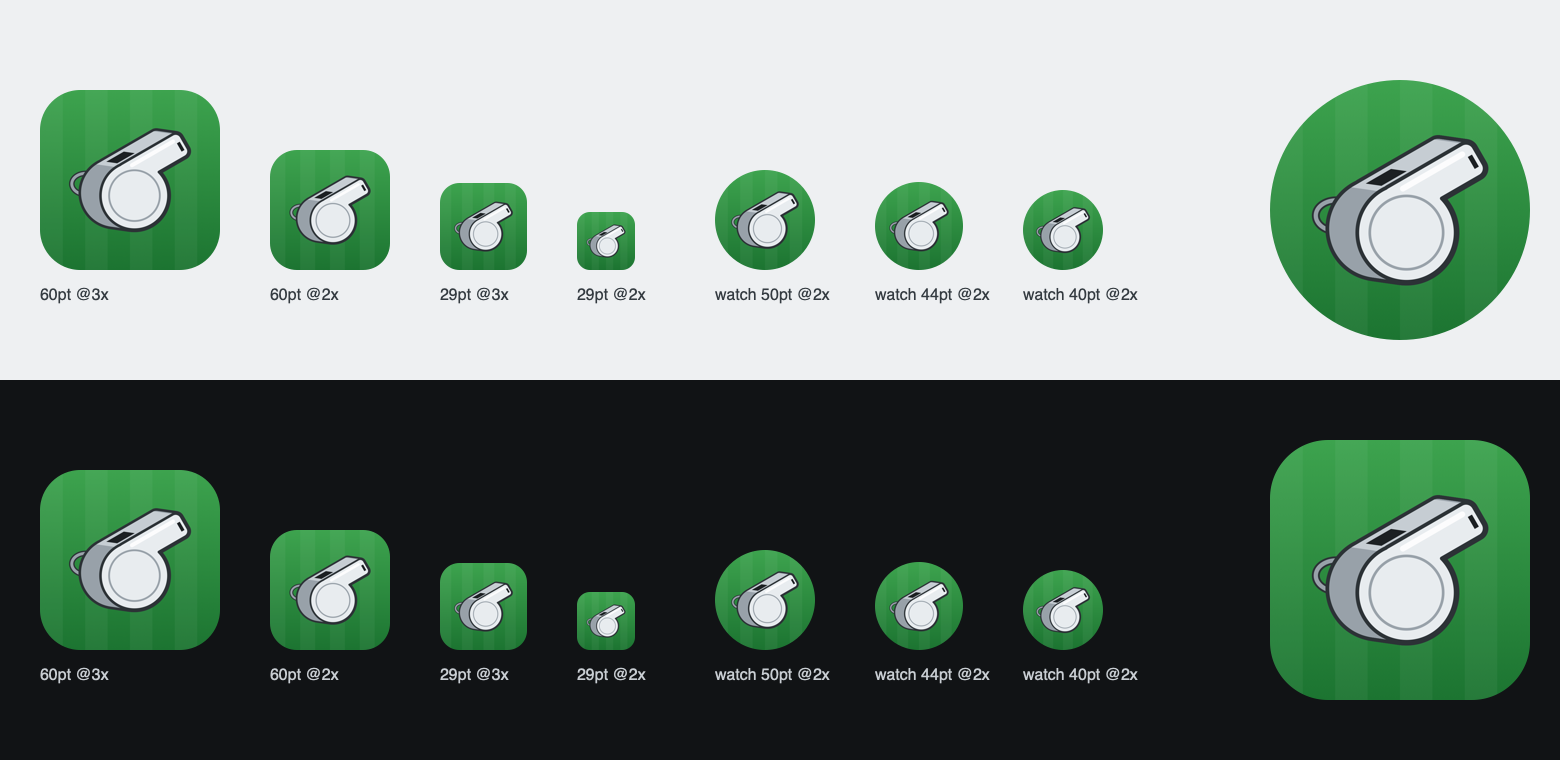
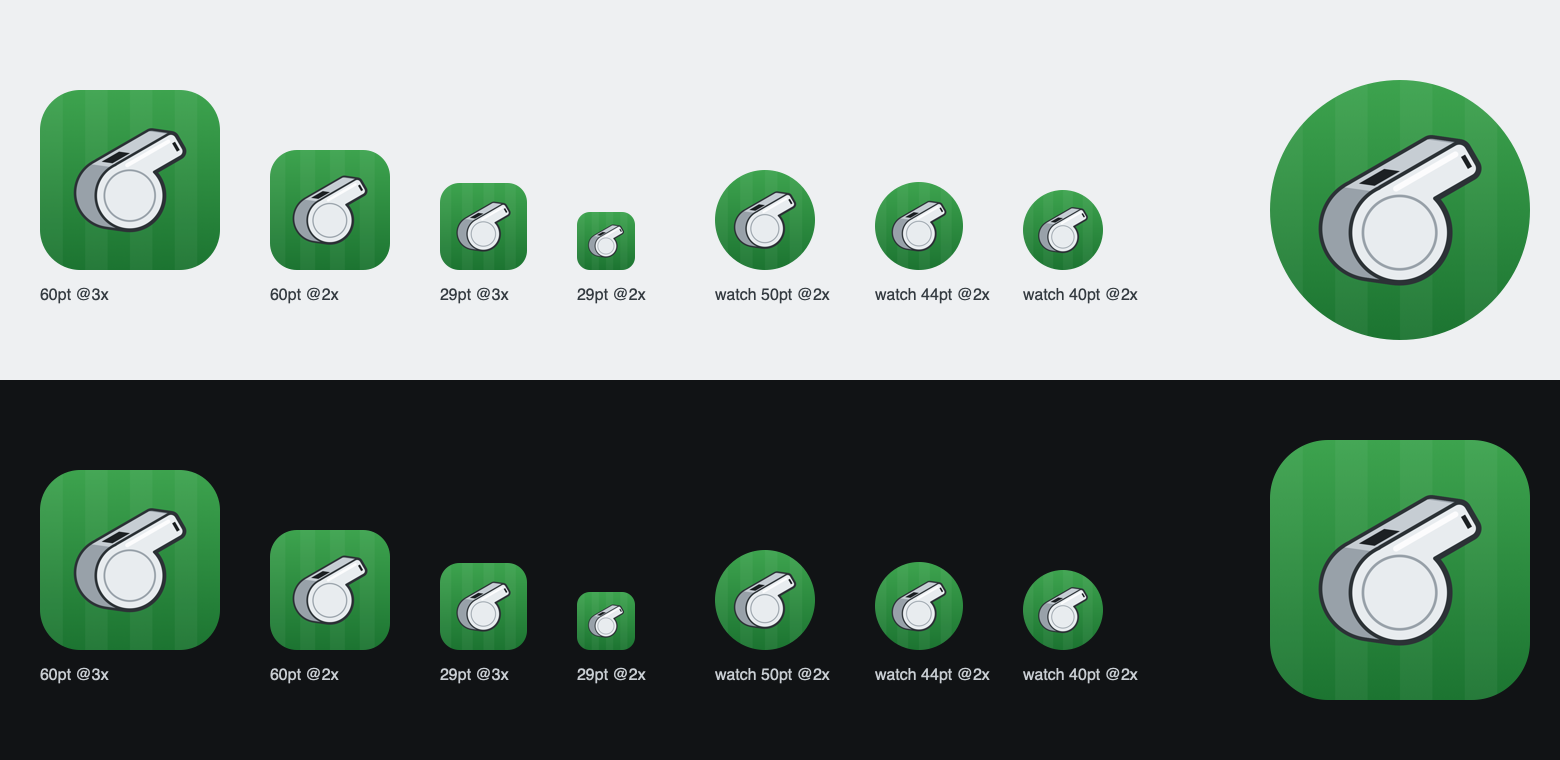
REF-5: remove the lanyard ring from the whistle
The approver asked for the small loop to be removed. Brief v4 records the change.

diff --git a/Design/AppIcon/render_icon.swift b/Design/AppIcon/render_icon.swift
@@ -54,7 +54,10 @@ let mirrored = true
 let tiltDegrees: CGFloat = -30
 let whistleScale: CGFloat = 1.05
 /// Final nudge, in icon units, so the tilted drawing sits visually centred.
-let placementShift = CGVector(dx: 52, dy: 28)
+let placementShift = CGVector(dx: 25, dy: 28)
+
+/// The lanyard ring is left out of the icon at the approver's request (REF-5 brief v4).
+let showRing = false
 
 // MARK: - Shapes (top-left origin, design units, before mirroring)
 
@@ -211,7 +214,7 @@ func renderIcon(size: Int) -> CGImage {
     ctx.rotate(by: tiltDegrees * .pi / 180)
     if mirrored { ctx.scaleBy(x: -1, y: 1) }
     ctx.translateBy(x: -whistleCentre.x, y: -whistleCentre.y)
-    drawRing(ctx)
+    if showRing { drawRing(ctx) }
     drawBody(ctx)
     return ctx.makeImage()!
 }
